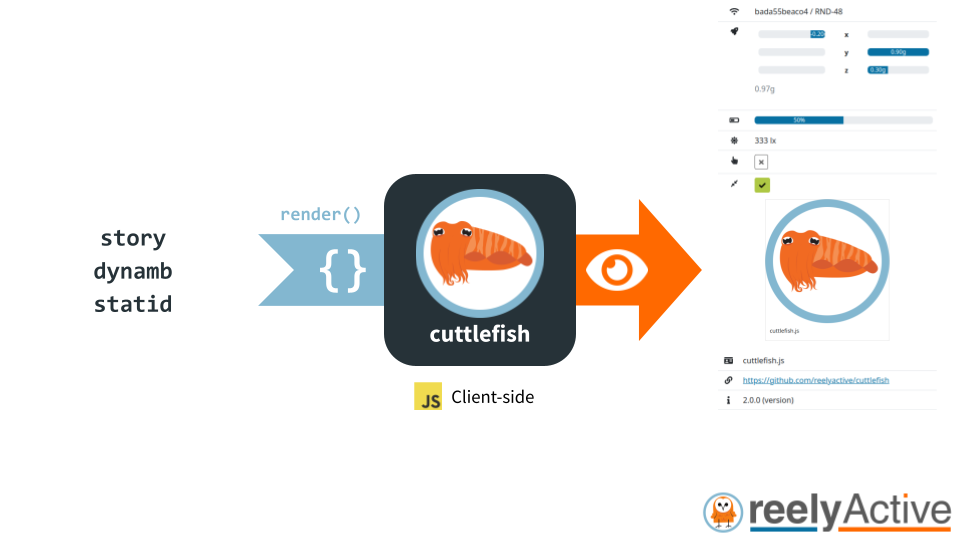
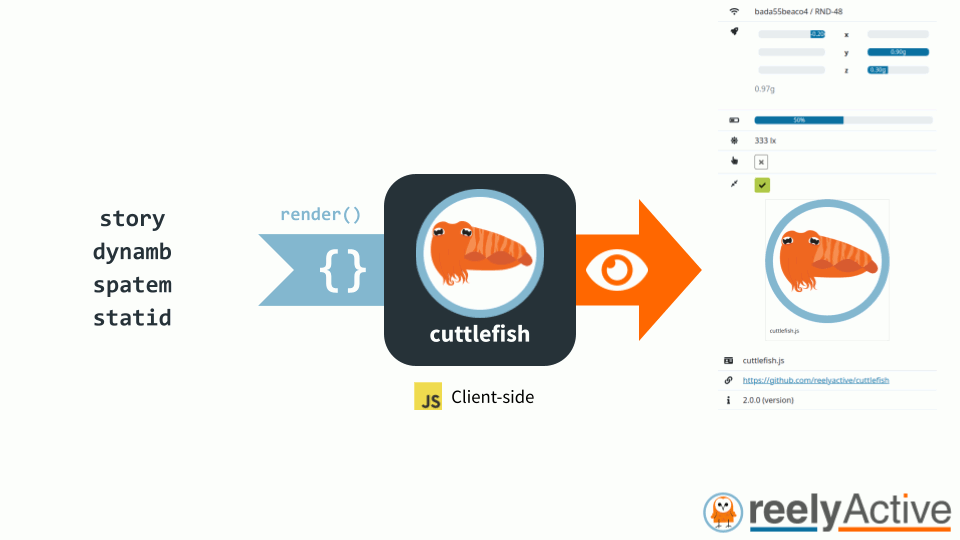
Documented spatem

Changed region(s): [[0.0938, 0.3852, 0.1875, 0.6222]]

diff --git a/README.md b/README.md
@@ -3,7 +3,8 @@ cuttlefish
 
 __cuttlefish__ facilitates human-friendly HTML rendering of machine-friendly:
 - JSON-LD & Schema.org ("story" data)
-- dynamb (dynamic ambient data)
+- [dynamb](https://reelyactive.github.io/diy/cheatsheet/#dynamb) (dynamic ambient data)
+- [spatem](https://reelyactive.github.io/diy/cheatsheet/#spatem) (spatial-temporal data)
 - statid (static identifier data)
 
 ![Overview of cuttlefish.js](https://reelyactive.github.io/cuttlefish/images/overview.png)
@@ -76,6 +77,10 @@ Supported functions
 `cuttlefishDynamb.renderIcon(property, target, options);`
 
 `cuttlefishDynamb.renderValue(property, data, target, options);`
+
+### cuttlefish-spatem.js
+
+`cuttlefishSpatem.render(statid, target, options);`
 
 ### cuttlefish-statid.js
 
